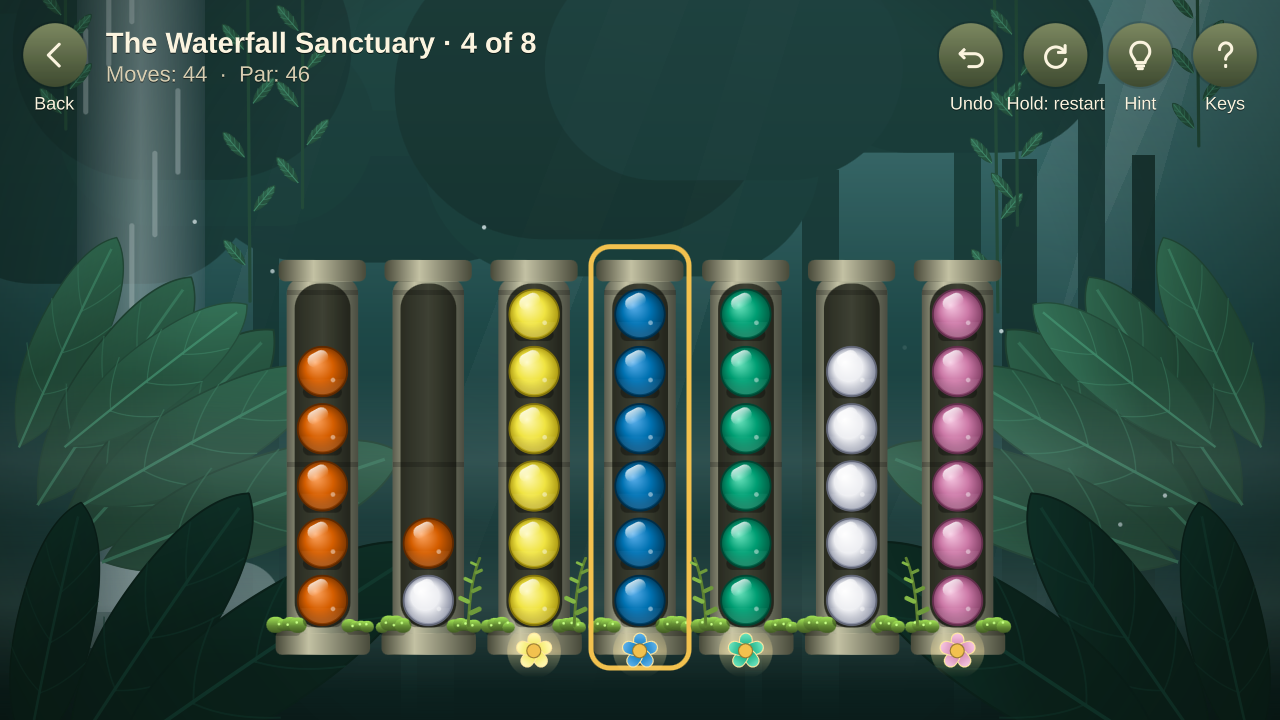
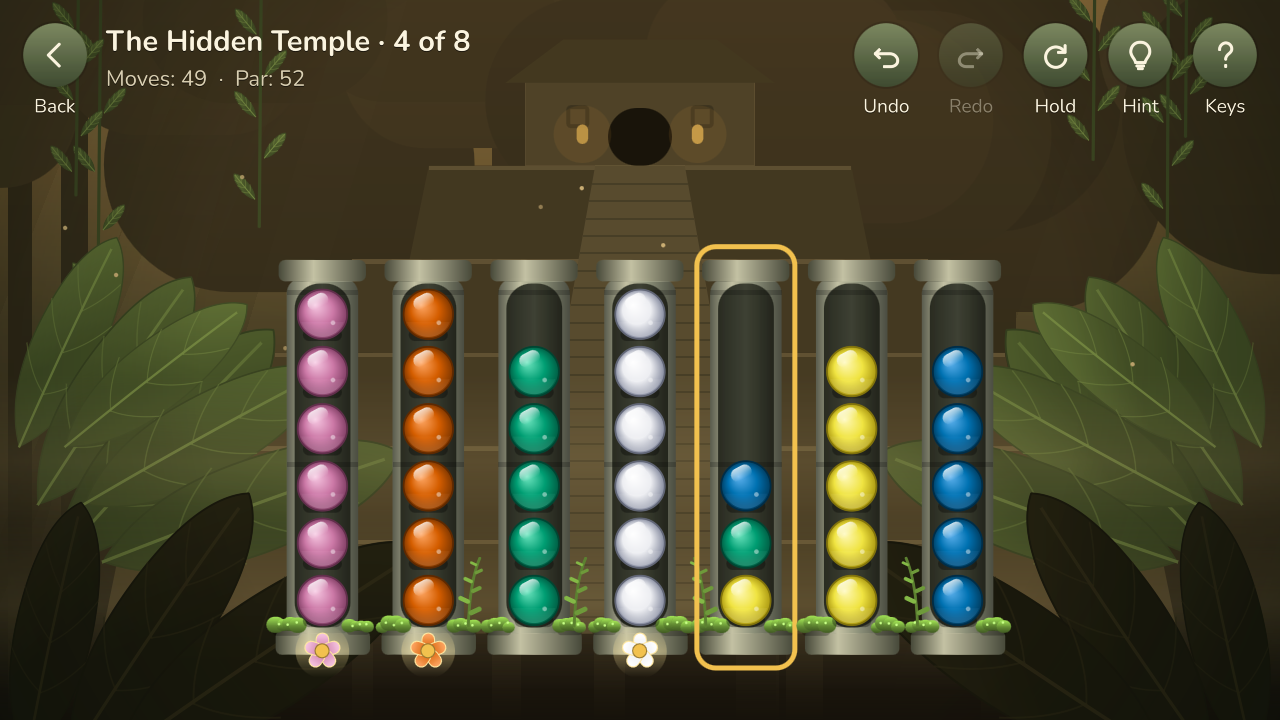
Prepare 0.2.0: version, changelog, a new preview
The version is 0.2.0 in hueometry.pro, the PKGBUILD and the plugin
manifest, and in the README's install command. CHANGELOG describes 0.2.0.
The plugin preview shows a puzzle in the Hidden Temple, made by a new
shot scene (tools/shot/scenes/preview.qml) so it can be remade.

diff --git a/tools/shot/scenes/preview.qml b/tools/shot/scenes/preview.qml
@@ -1,0 +1,27 @@
+import QtQuick
+import "../../../qml/Hueometry"
+// The marketplace preview (plugin/preview.png, at 1280x720): a puzzle,
+// all but a few moves played, so flowers are open and the board is busy.
+// Words: an area (default temple), and leftN for the moves still to play.
+Item {
+  id: root
+  width: 1280; height: 720
+  readonly property var args: Qt.application.arguments
+  readonly property string area: ["clearing", "river", "ruins", "waterfall", "temple", "heart"].find(a => args.indexOf(a) >= 0) || "temple"
+  readonly property int remaining: { for (const a of args) if (/^left\d+$/.test(a)) return parseInt(a.slice(4)); return 4 }
+  Game {
+    id: g
+    anchors.fill: parent
+    host: MemoryHost { files: ({ "settings.json": JSON.stringify({ muted: true }) }) }
+    Component.onCompleted: g.start({ kind: "level", area: root.area, index: 3 })
+  }
+  Timer {
+    interval: 200; running: true
+    onTriggered: {
+      const p = g.current
+      const sol = p.session.puzzle.solution
+      for (let i = 0; i < sol.length - root.remaining; i++) { p.touch(sol[i].from); p.touch(sol[i].to) }
+      p.focusColumn = sol[sol.length - root.remaining].from
+    }
+  }
+}

diff --git a/CHANGELOG.md b/CHANGELOG.md
@@ -1,5 +1,27 @@
 # Changelog
 
+## 0.2.0 (2026-11-24)
+
+- New music: a theme for the menu and one for each kind of area (forest,
+  river, temple), in stereo, with tunes that follow their chords and end
+  on a resolving note. The ambience is in stereo too, and birds, frogs and
+  drips now sound at random while you play instead of repeating in a loop.
+- Each area's landmark stands out: standing stones, a river under a rope
+  bridge, ruined arches, a waterfall with rising mist, the temple and its
+  shrine, and the heart tree. The map shows each area as a small picture.
+- A soft bell rings in a pillar's colour when a move fills it, an orb
+  squashes a little as it lands, and a hinted pillar's light breathes.
+- A monkey cheers solved puzzles in the ruins and the temple.
+- Redo (Ctrl+Shift+Z, or its button) replays a move you undid.
+- The bundled Nunito typeface, so the game looks the same everywhere.
+- Fixes: the results card fits small windows, cards are no longer
+  see-through, the keys card scrolls when the window is short, and the
+  board-shape previews keep their labels clear.
+- The sounds are evened out and every one starts without a click; the
+  settings say when Qt Multimedia is missing and the game is silent.
+- The shell plugin opens through the shell's own API, and a check guards
+  the plugin against anything the marketplace's security scan rejects.
+
 ## 0.1.0 (2026-11-24)
 
 - First playable version: a Bend 2 rules engine whose gameplay laws are

diff --git a/README.md b/README.md
@@ -5,7 +5,7 @@ glowing jungle orbs so every pillar holds one colour, using the empty pillar
 as space, in as few moves as you can. Any orb may sit on any colour; you move
 one orb at a time, always the top one.
 
-![Hueometry in the Waterfall Sanctuary](plugin/preview.png)
+![Hueometry in the Hidden Temple](plugin/preview.png)
 
 Explore the Lost Jungle Temple through a short tutorial and six areas of eight
 puzzles, or pick a size in free play. There is no timer, no account, no
@@ -25,7 +25,7 @@ Download the package from the
 and install that file (use the name of the one you downloaded):
 
 ```sh
-sudo pacman -U ./hueometry-0.1.0-1-x86_64.pkg.tar.zst
+sudo pacman -U ./hueometry-0.2.0-1-x86_64.pkg.tar.zst
 ```
 
 Or build it yourself from a checkout (needs `base-devel`):
